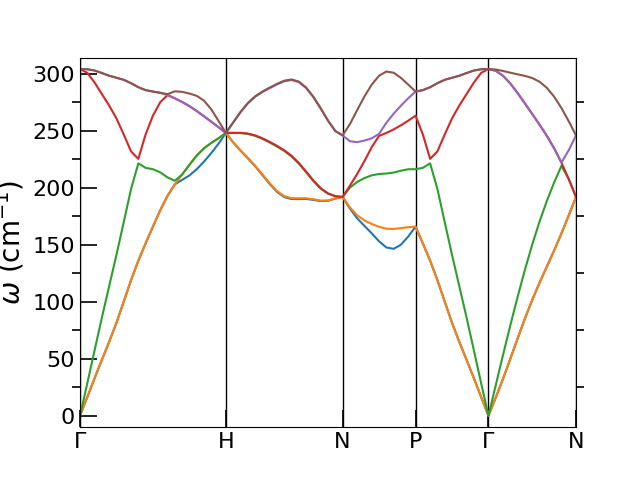
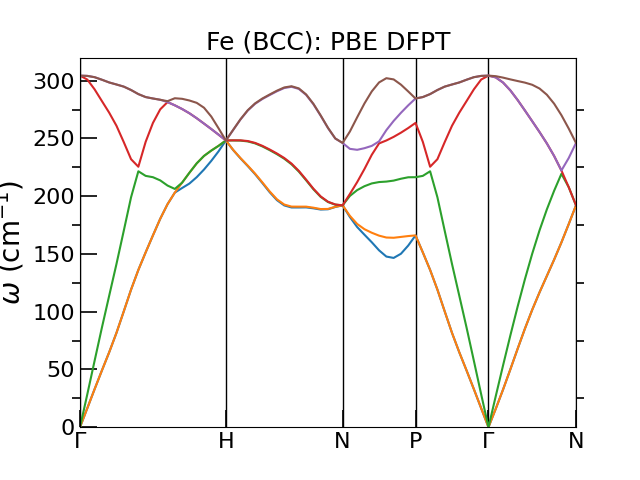
Updated Fe phonon example to include title

Changed region(s): [[0.0312, 0.0625, 0.9062, 0.9062], [0.0312, 0.375, 0.1562, 0.4375]]

diff --git a/Examples/Fe_phonon_bs/Fe_phonon_bs.py b/Examples/Fe_phonon_bs/Fe_phonon_bs.py
@@ -7,7 +7,8 @@ import matplotlib.pyplot as plt
 phon = Phonon('Fe.phonon', verbose=True)
 
 fig, ax = plt.subplots()
-phon.plot_dispersion(ax)
+phon.plot_dispersion(ax, freq_lim=[0, 320])
 
+plt.title('Fe (BCC): PBE DFPT', fontsize=18)
 plt.savefig('Fe_phonon_bs.png')
 # plt.show()
